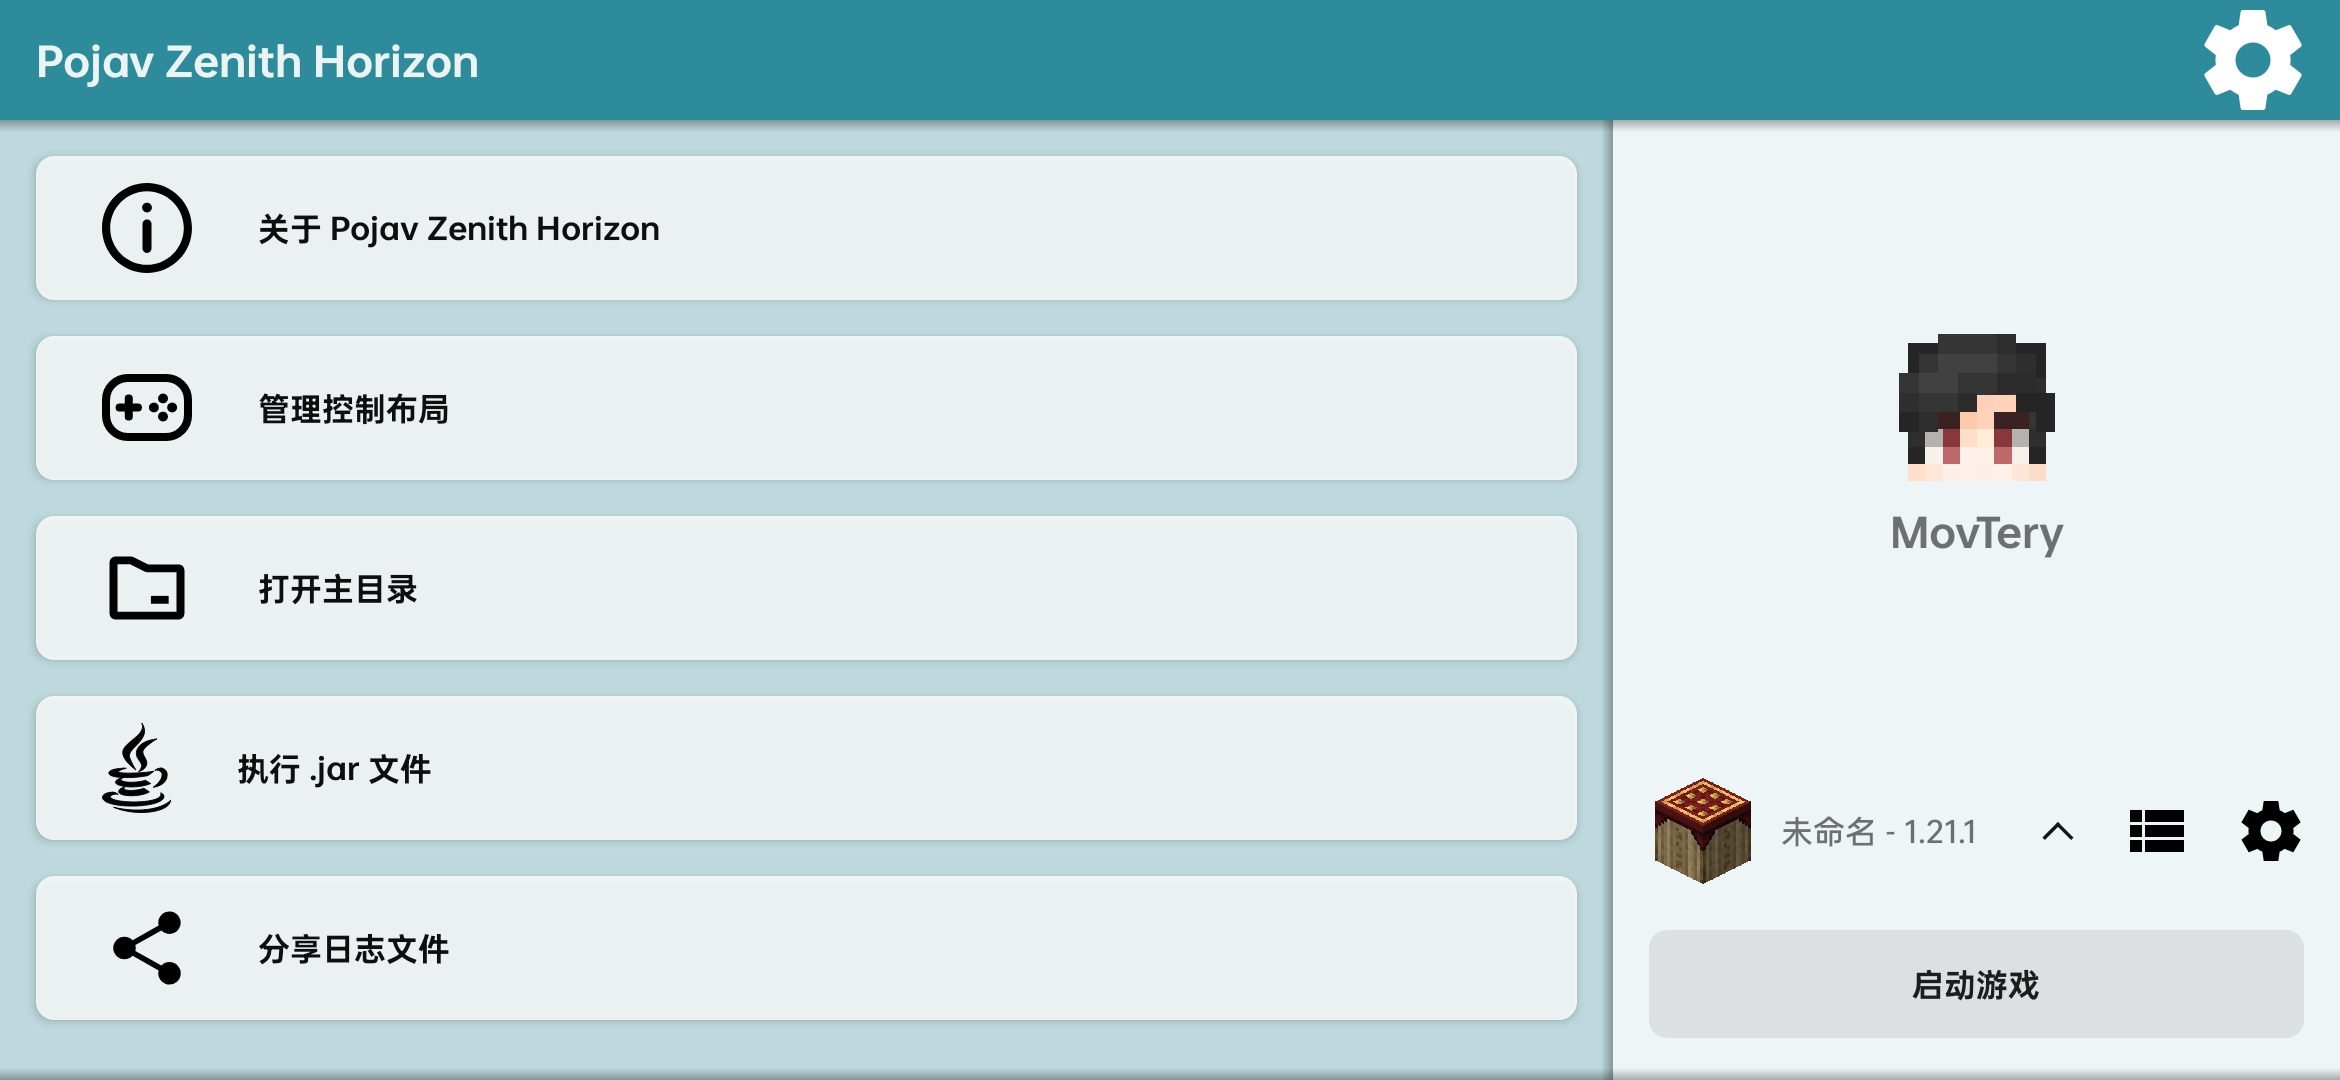
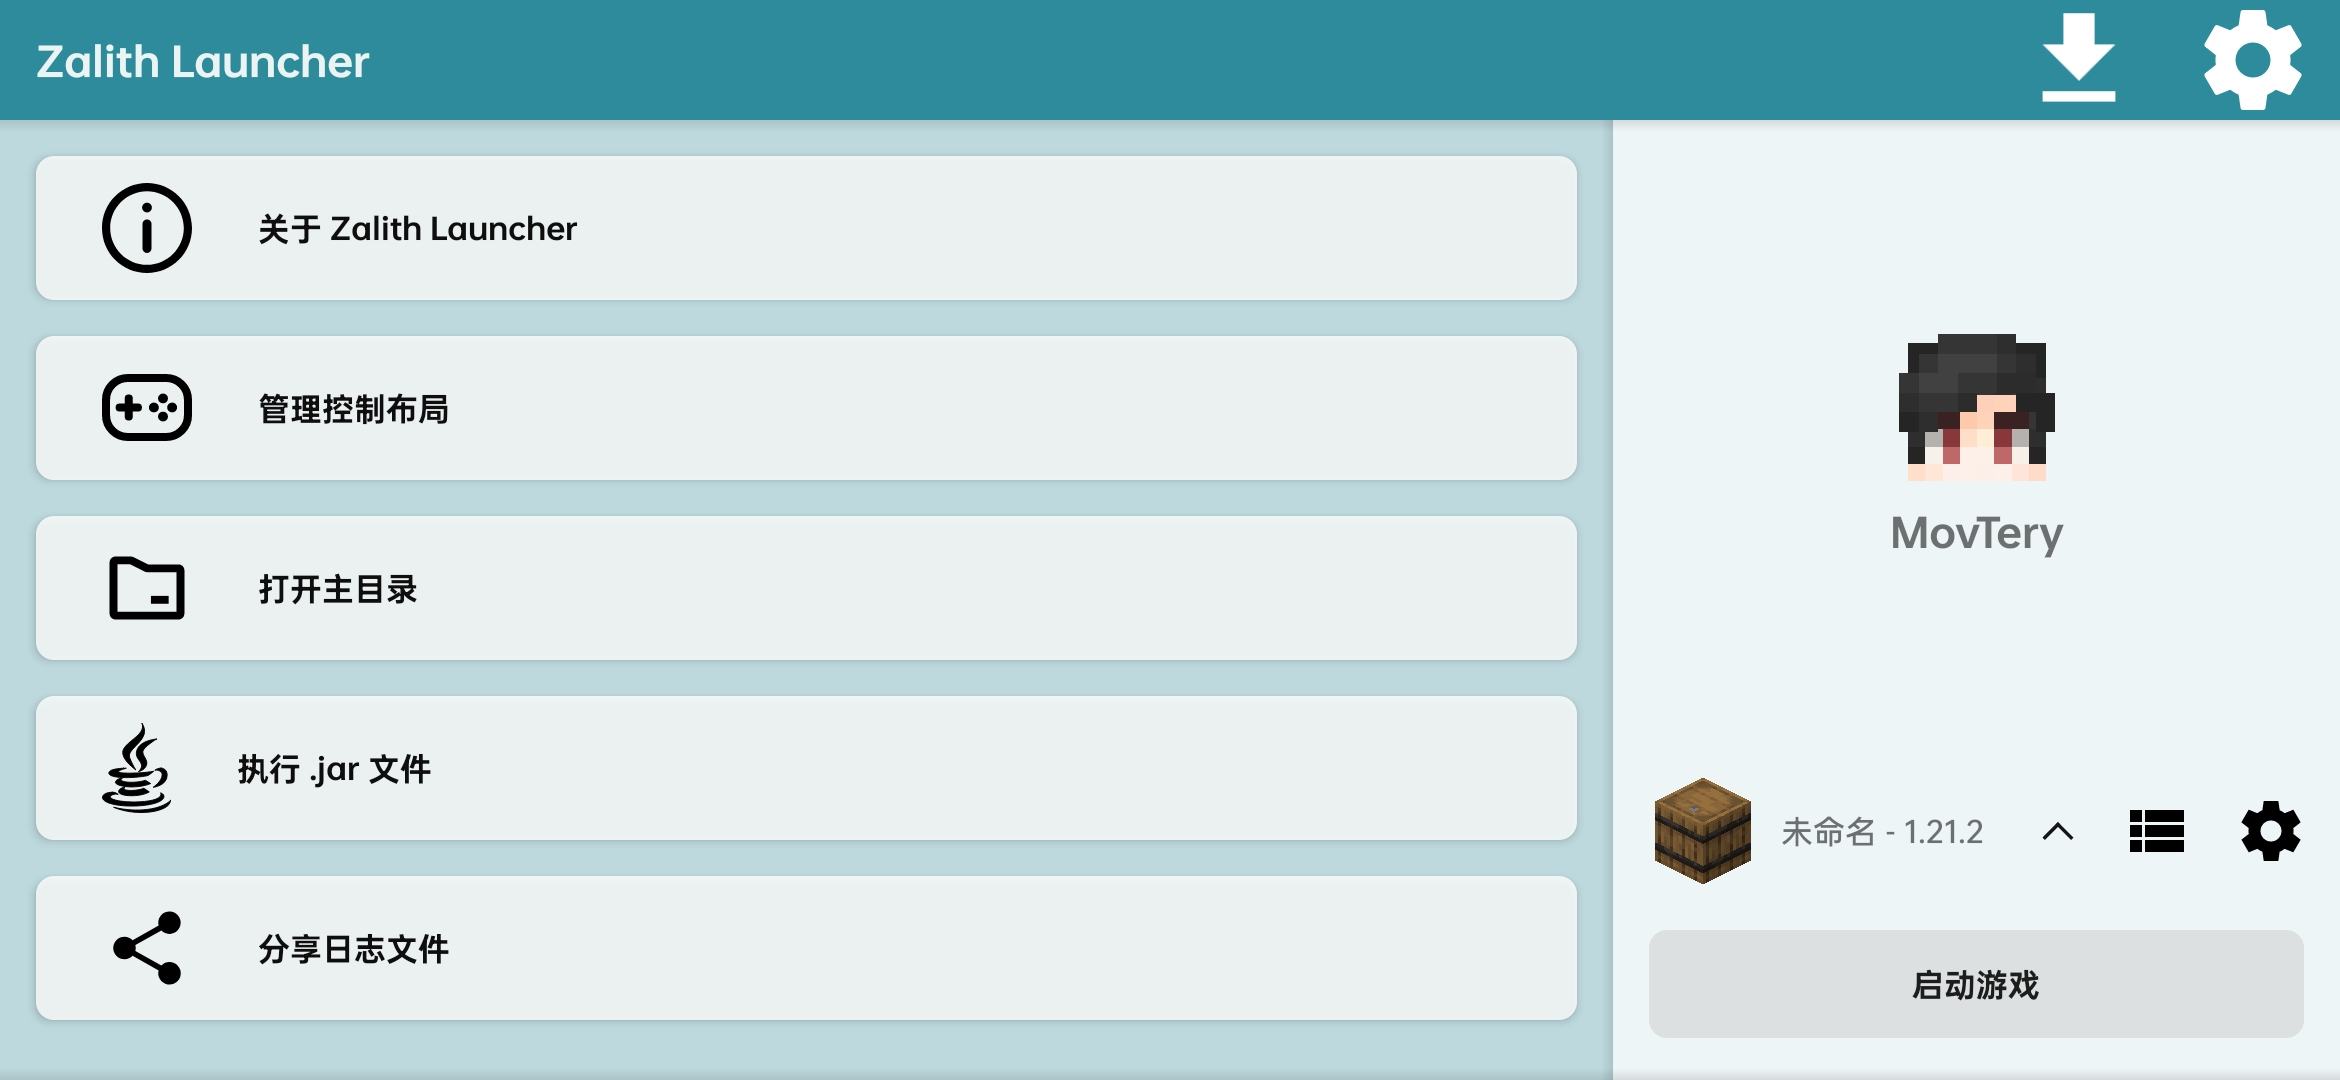
Adjust name, README file

diff --git a/ZalithLauncher/src/main/java/com/movtery/zalithlauncher/utils/PathAndUrlManager.kt b/ZalithLauncher/src/main/java/com/movtery/zalithlauncher/utils/PathAndUrlManager.kt
@@ -18,7 +18,7 @@ class PathAndUrlManager {
         private const val TIME_OUT = 8000
         private const val URL_USER_AGENT: String = "PZH/${BuildConfig.VERSION_NAME}" //此处不做更改，继承 Pojav Zenith Horizon
         const val URL_GITHUB_RELEASE: String = "https://api.github.com/repos/MovTery/ZalithLauncher/releases/latest"
-        const val URL_GITHUB_HOME: String = "https://api.github.com/repos/MovTery/PZH-InfoRetrieval/contents/"
+        const val URL_GITHUB_HOME: String = "https://api.github.com/repos/MovTery/Zalith-Info/contents/"
         const val URL_MCMOD: String = "https://www.mcmod.cn/"
         const val URL_MINECRAFT: String = "https://www.minecraft.net/"
         const val URL_SUPPORT: String = "https://afdian.com/a/MovTery"

diff --git a/README.md b/README.md
@@ -3,14 +3,12 @@
 </div>
 
 [![Android CI](https://github.com/MovTery/ZalithLauncher/actions/workflows/android.yml/badge.svg)](https://github.com/MovTery/ZalithLauncher/actions/workflows/android.yml)
-[![Crowdin](https://badges.crowdin.net/pojav-zenith-horizon/localized.svg)](https://crowdin.com/project/pojav-zenith-horizon)
 ![Downloads](https://img.shields.io/github/downloads/MovTery/ZalithLauncher/total)
 [![Sponsor](https://img.shields.io/badge/sponsor-30363D?logo=GitHub-Sponsors)](https://afdian.com/a/MovTery)
 
 - <a href="/README-EN_US.md">English</a>丨<a href="/README-ZH_TW.md">繁體中文</a>
 - Zalith Launcher 是一款基于 [PojavLauncher](https://github.com/PojavLauncherTeam/PojavLauncher) 开发的 Minecraft 启动器，它能够在 Android 设备上运行 [Minecraft: Java Edition](https://www.minecraft.net/)。
 - Zalith Launcher 致力于优化用户体验，重新设计了应用界面，新增了更多实用的功能，旨在最大程度地降低游玩门槛，让更多人能够轻松体验 Minecraft 的乐趣。
-- 你可以前往 [Crowdin](https://zh.crowdin.com/project/pojav-zenith-horizon) 帮助我翻译 Zalith Launcher！
 
 **注意！此项目只是一个社区改版，就像 PojavLauncher 的前身 [Boardwalk](https://github.com/zhuowei/Boardwalk) 一样。**
 

diff --git a/README-ZH_TW.md b/README-ZH_TW.md
@@ -3,14 +3,12 @@
 </div>
 
 [![Android CI](https://github.com/MovTery/ZalithLauncher/actions/workflows/android.yml/badge.svg)](https://github.com/MovTery/ZalithLauncher/actions/workflows/android.yml)
-[![Crowdin](https://badges.crowdin.net/pojav-zenith-horizon/localized.svg)](https://crowdin.com/project/pojav-zenith-horizon)
 ![Downloads](https://img.shields.io/github/downloads/MovTery/ZalithLauncher/total)
 [![Sponsor](https://img.shields.io/badge/sponsor-30363D?logo=GitHub-Sponsors)](https://afdian.com/a/MovTery)
 
 - <a href="/README-EN_US.md">English</a>丨<a href="/README.md">简体中文</a>
 - Zalith Launcher 是一款基於 [PojavLauncher](https://github.com/PojavLauncherTeam/PojavLauncher) 開發的 Minecraft 啟動器，它能夠在 Android 設備上運行 [Minecraft: Java Edition](https://www.minecraft.net/)。
 - Zalith Launcher 致力於優化用戶體驗，重新設計了應用介面，新增了更多實用的功能，旨在最大程度地降低遊玩門檻，讓更多人能夠輕鬆體驗 Minecraft 的樂趣。
-- 你可以前往 [Crowdin](https://zh.crowdin.com/project/pojav-zenith-horizon) 幫助我翻譯 Zalith Launcher！
 
 **注意！此項目只是一個社群改版，就像 PojavLauncher 的前身 [Boardwalk](https://github.com/zhuowei/Boardwalk) 一樣。**
 

diff --git a/README-EN_US.md b/README-EN_US.md
@@ -3,14 +3,12 @@
 </div>
 
 [![Android CI](https://github.com/MovTery/ZalithLauncher/actions/workflows/android.yml/badge.svg)](https://github.com/MovTery/ZalithLauncher/actions/workflows/android.yml)
-[![Crowdin](https://badges.crowdin.net/pojav-zenith-horizon/localized.svg)](https://crowdin.com/project/pojav-zenith-horizon)
 ![Downloads](https://img.shields.io/github/downloads/MovTery/ZalithLauncher/total)
 [![Sponsor](https://img.shields.io/badge/sponsor-30363D?logo=GitHub-Sponsors)](https://afdian.com/a/MovTery)
 
 - <a href="/README.md">简体中文</a>丨<a href="/README-ZH_TW.md">繁體中文</a>
 - Zalith Launcher is a Minecraft launcher based on [PojavLauncher](https://github.com/PojavLauncherTeam/PojavLauncher) that runs [Minecraft: Java Edition](https://www.minecraft.net/) on Android devices.
 - Zalith Launcher aims to enhance user experience by redesigning the app interface, adding more practical features, and lowering the barrier to entry, making it easier for more people to enjoy Minecraft.
-- You can help translate Zalith Launcher on [Crowdin](https://zh.crowdin.com/project/pojav-zenith-horizon)!
 
 **Notice! This project is just a community-made modification, similar to PojavLauncher’s predecessor, [Boardwalk](https://github.com/zhuowei/Boardwalk).**
 
